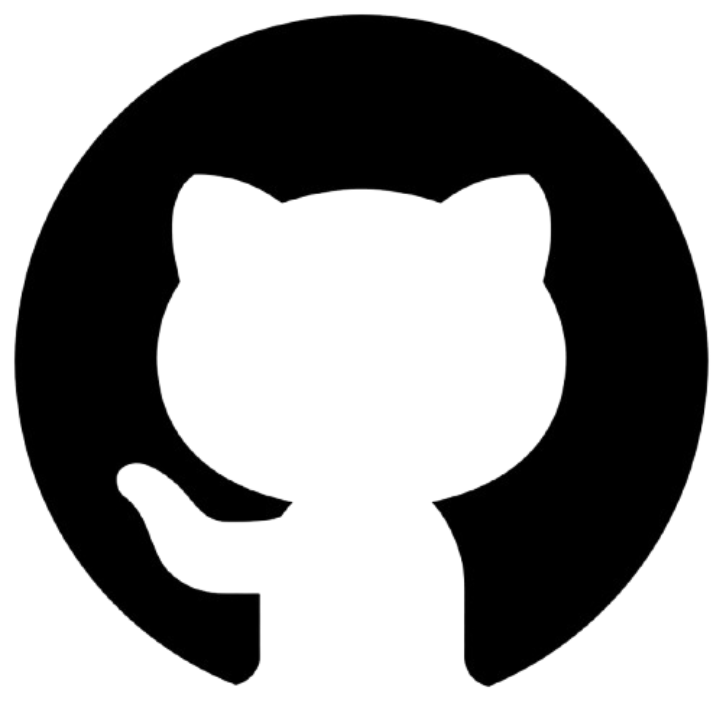
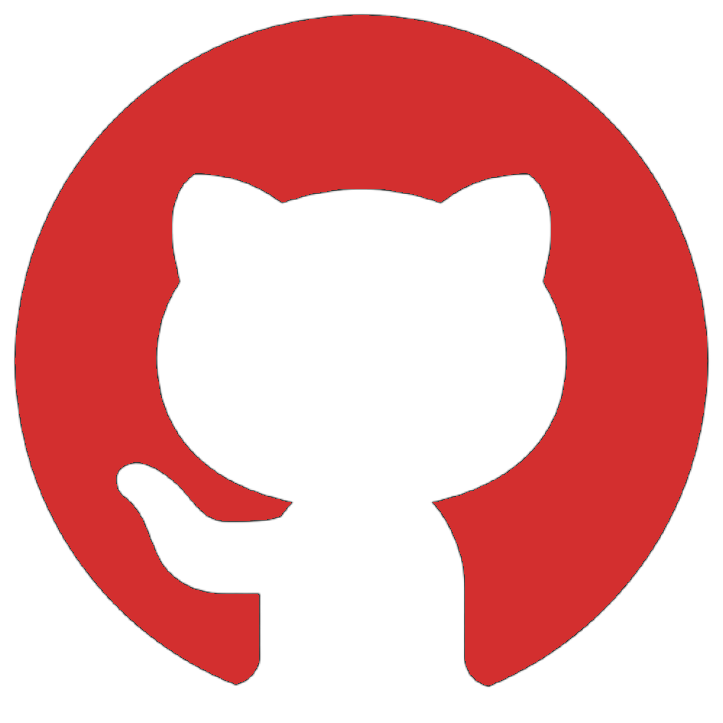
switched buttons to images

diff --git a/index.html b/index.html
@@ -357,7 +357,7 @@
 <!-- Mobile Navbar -->
 <div class="mobile-navbar fixed top-0 left-0 w-full bg-white shadow-md z-50 md:hidden">
     <div class="flex justify-between items-center p-4">
-        <h1 class="text-2xl font-bold text-cherry-red">My Portfolio</h1>
+        <h1 class="text-2xl font-bold text-cherry-red">Jaydon Moses</h1>
         <button id="menu-toggle" class="text-3xl text-cherry-red">
             &#9776; <!-- Hamburger icon -->
         </button>
@@ -366,7 +366,7 @@
     <!-- Mobile Menu (Initially hidden) -->
     <div id="mobile-menu" class="mobile-menu hidden">
         <ul class="flex flex-col items-center">
-            <li><a href="#about" class="text-lg py-2">About</a></li>
+            <li><a href="#about" class="text-lg py-2">About Me</a></li>
             <li><a href="#recent-accomplishments" class="text-lg py-2">Recent Accomplishments</a></li>
             <li><a href="#resume" class="text-lg py-2">Resume</a></li>
             <li><a href="#contact" class="text-lg py-2">Contact</a></li>
@@ -575,14 +575,23 @@
 </section>
 
 
-<!-- Contact Section (Not part of the resume tab navigation) -->
+<!-- Contact Section -->
 <section id="contact" class="section text-center">
     <h2 class="text-3xl font-bold text-cherry-red">Contact Me</h2>
     <p class="text-lg text-gray-600 mt-4">Feel free to reach out for inquiries or collaborations.</p>
     <div class="mt-6 space-x-4">
-        <a href="mailto:jaydon.10.moses@gmail.com" class="btn btn-primary">Email Me</a>
-        <a href="https://www.linkedin.com/in/jaydonmoses/" target="_blank" class="btn btn-primary">LinkedIn</a>
-        <a href="https://github.com/jaydonmoses" target="_blank" class="btn btn-primary">GitHub</a>
+        <!-- GitHub Link -->
+        <a href="https://github.com/jaydonmoses" target="_blank">
+            <img src="Images for Website/github-icon.png" alt="GitHub" class="w-10 h-10 inline-block"/>
+        </a>
+        <!-- LinkedIn Link -->
+        <a href="https://www.linkedin.com/in/jaydonmoses/" target="_blank">
+            <img src="Images for Website/linkedin-icon.png" alt="LinkedIn" class="w-10 h-10 inline-block"/>
+        </a>
+        <!-- Email Link -->
+        <a href="mailto:jaydon.10.moses@gmail.com">
+            <img src="Images for Website/email-icon.png" alt="Email" class="w-10 h-10 inline-block"/>
+        </a>
     </div>
 </section>
 
